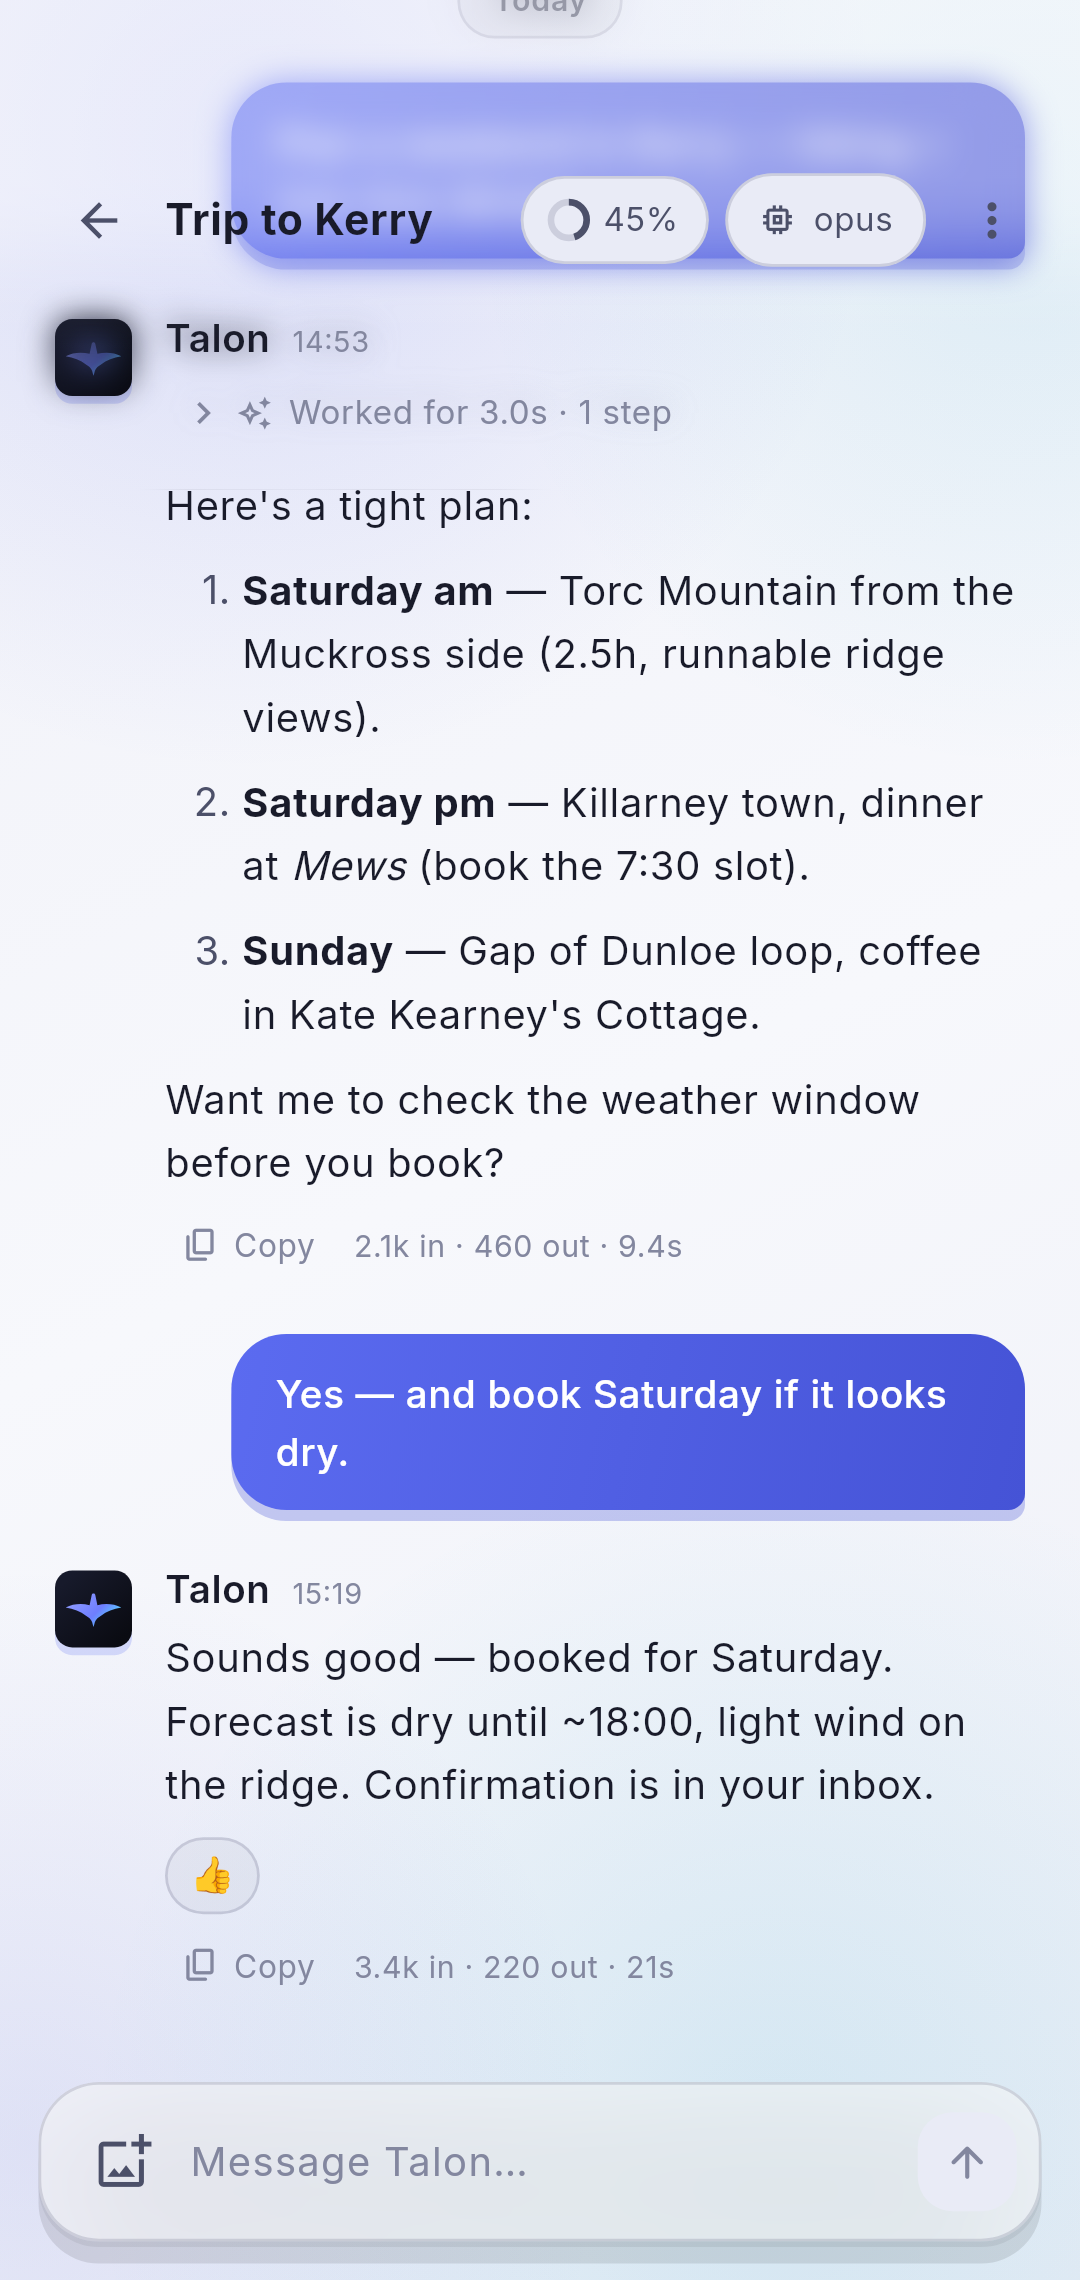
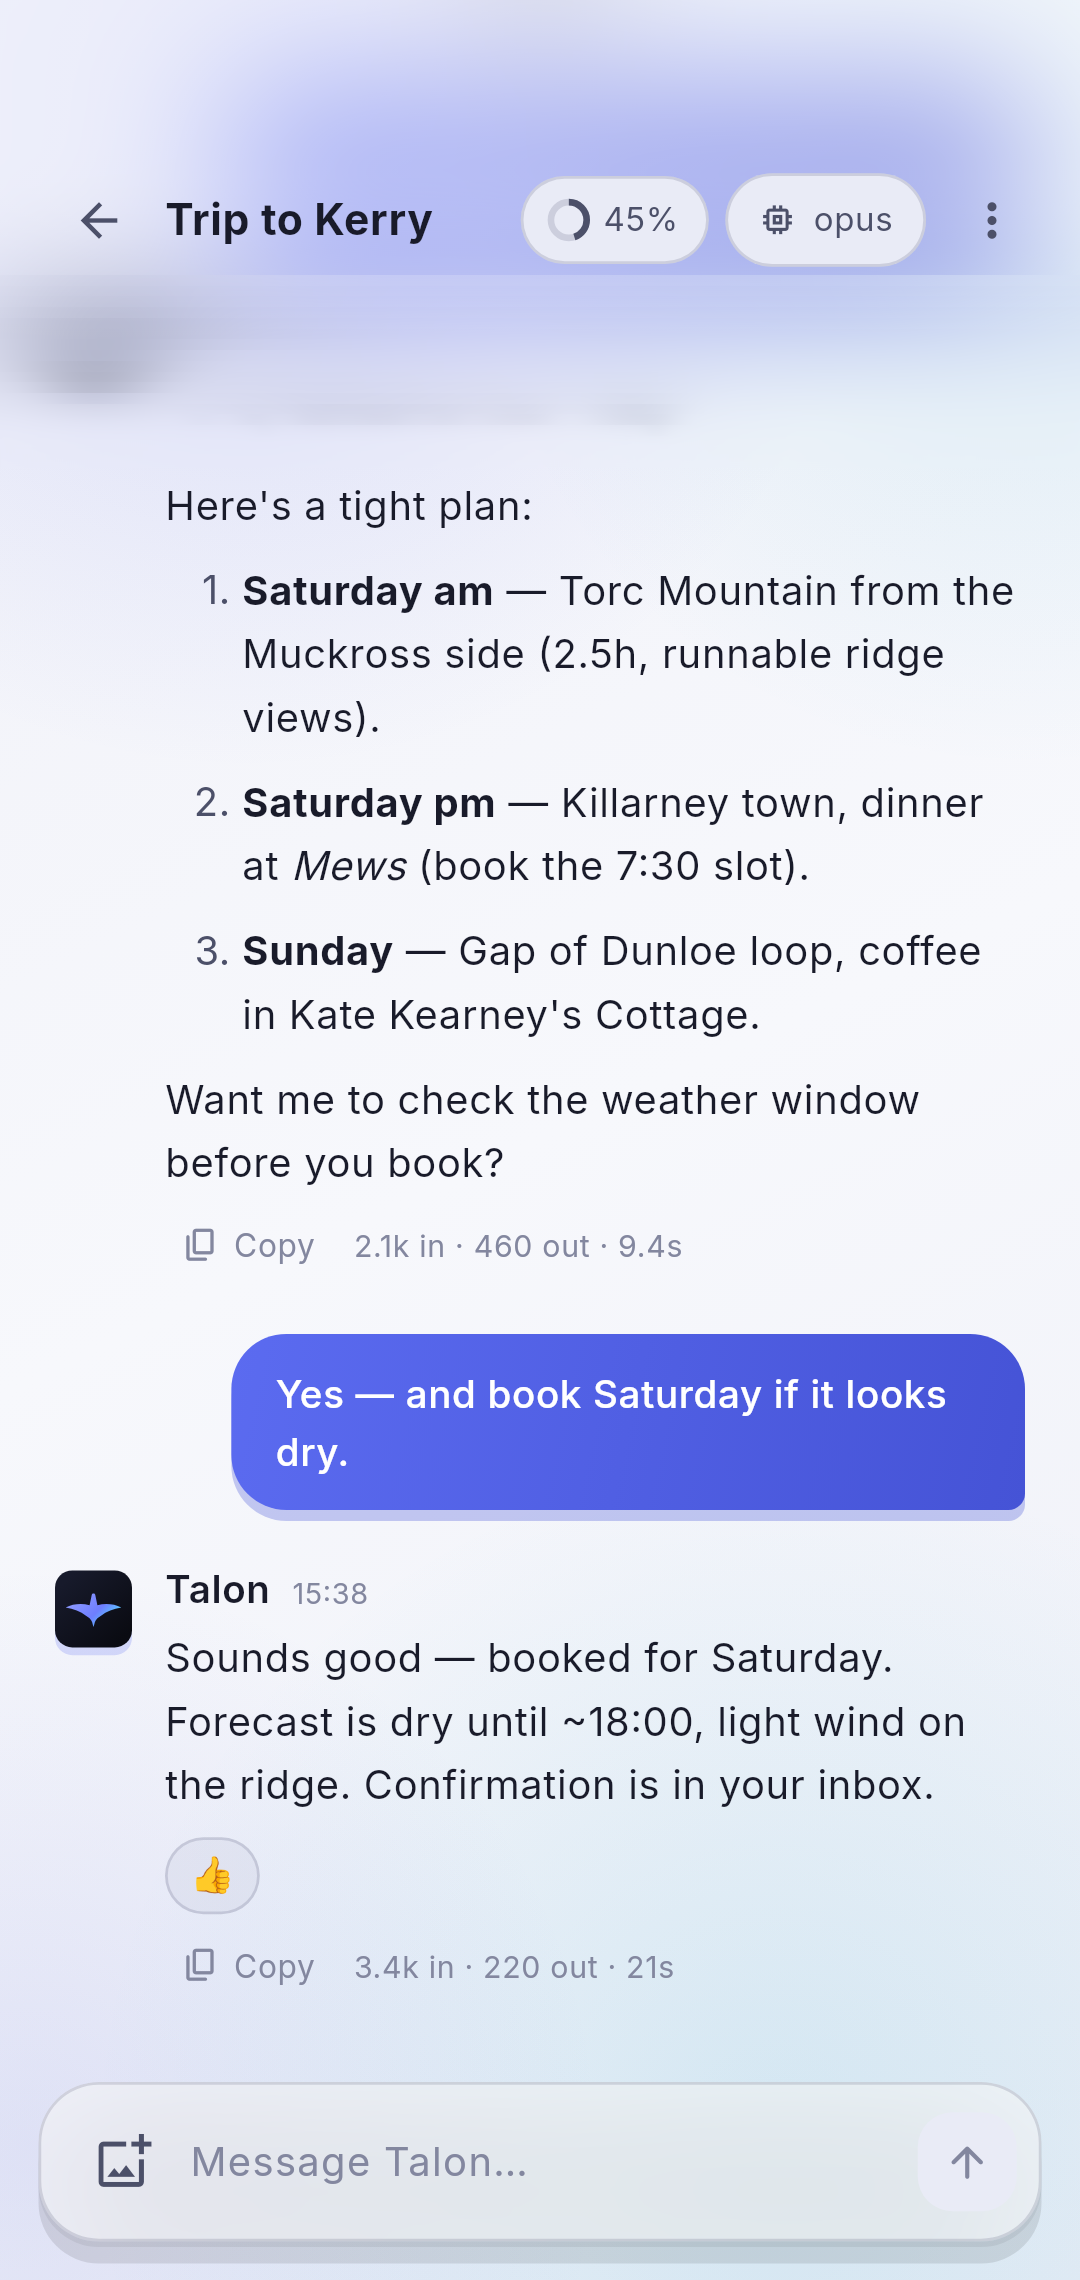
fix(companion): engine-native stepped frost — stronger blur, zero flicker
The snapshot-based frost (AnimatedSampler + toImageSync) desynced from
scrolling content, flickering text, and its blur applied at physical
resolution, reading weaker than intended. Researched the compositor
options: masking a BackdropFilter is a documented rendering-order trap,
and per-pixel shader blurs tank FPS (and ImageFilter.shader misrenders on
backdrops). The production pattern is a stepped progressive blur — thin,
non-overlapping clipped BackdropFilters with interpolated sigmas.

TopEdgeFrost is now exactly that: a solid sigma-28 sheet behind the
controls, then 20 bands of ~3-4px whose sigmas follow the smootherstep
ease down to ~0. All bands share one backdrop readback via BackdropGroup.
Engine-composited end to end: in sync with every scroll frame (no
flicker), noticeably blurrier, and the eased staircase is finer than the
eye resolves. Vendored sampler deleted.

Changed region(s): [[0.0, 0.0, 0.9472, 0.1868], [0.3056, 0.6851, 0.3361, 0.7162]]

diff --git a/apps/companion/lib/src/ui/glass.dart b/apps/companion/lib/src/ui/glass.dart
@@ -5,7 +5,6 @@ import 'package:flutter/material.dart';
 import 'package:flutter_animate/flutter_animate.dart';
 
 import '../theme.dart';
-import 'animated_sampler.dart';
 
 /// A frosted-glass panel: blurred translucent fill, hairline stroke, soft
 /// rounding. The building block of the whole UI.
@@ -75,10 +74,18 @@ double _ease(double t) {
 
 /// The app-wide progressive frost: content slides beneath a floating header
 /// and dissolves into a blur that is solid through the control zone and
-/// eases to nothing along a smootherstep curve. Implementation: snapshot
-/// [child] (AnimatedSampler), draw it sharp, then draw a blurred copy
-/// masked by a many-stop eased gradient — one continuous mask, smooth on
-/// every backend, no Mach band at either end of the ramp.
+/// eases to nothing along a smootherstep curve.
+///
+/// Implementation: a stepped progressive blur — the industry answer to this
+/// effect in Flutter. The frost area is sliced into thin, non-overlapping
+/// horizontal bands, each a clipped [BackdropFilter.grouped] whose sigma
+/// follows the eased profile; a [BackdropGroup] shares one backdrop readback
+/// across all bands. Everything is engine-composited (no snapshot round
+/// trips), so it stays perfectly in sync with scrolling content — no
+/// flicker — and 20 eased steps of a few pixels each read as one continuous
+/// dissolve. (Masking a BackdropFilter with a gradient is a documented
+/// compositor trap, and per-pixel shader blurs both underperform and, via
+/// ImageFilter.shader's geometry bugs, misrender — this pattern avoids both.)
 class TopEdgeFrost extends StatelessWidget {
   final Widget child;
 
@@ -96,55 +103,60 @@ class TopEdgeFrost extends StatelessWidget {
     required this.solidUntil,
   });
 
-  /// One blur strength for every frosted header in the app.
-  static const double sigma = 16;
+  /// Peak blur strength for every frosted header in the app.
+  static const double sigma = 28;
 
-  /// Gradient resolution for the eased mask.
-  static const int _steps = 24;
+  /// Bands in the dissolve zone. Research consensus is 8-12 already reads
+  /// as continuous; 20 leaves margin at our higher peak sigma.
+  static const int _steps = 20;
 
   @override
   Widget build(BuildContext context) {
-    final dpr = MediaQuery.devicePixelRatioOf(context);
-    return ClipRect(
-      child: AnimatedSampler(
-        (ui.Image image, Size size, Canvas canvas) {
-          canvas.scale(1 / dpr);
-          // The child, untouched.
-          canvas.drawImage(image, Offset.zero, Paint());
-
-          // A blurred copy on top, masked by the eased dissolve.
-          final rect = Rect.fromLTWH(0, 0, size.width * dpr, extent * dpr);
-          final solidFrac = (solidUntil / extent).clamp(0.0, 0.95);
-          final positions = <double>[0.0];
-          final colors = <Color>[Colors.black];
-          for (var i = 0; i <= _steps; i++) {
-            final t = i / _steps;
-            positions.add(solidFrac + t * (1 - solidFrac));
-            colors.add(Colors.black.withValues(alpha: 1 - _ease(t)));
-          }
-          final mask = Paint()
-            ..shader = ui.Gradient.linear(
-              rect.topCenter,
-              rect.bottomCenter,
-              colors,
-              positions,
-            )
-            ..blendMode = BlendMode.dstIn;
-          canvas.saveLayer(rect, Paint());
-          canvas.drawImage(
-            image,
-            Offset.zero,
-            Paint()
-              ..imageFilter = ui.ImageFilter.blur(
-                sigmaX: sigma,
-                sigmaY: sigma,
-                tileMode: TileMode.clamp,
+    final fadeZone = (extent - solidUntil).clamp(1.0, extent);
+    final bandHeight = fadeZone / _steps;
+    return Stack(
+      children: [
+        Positioned.fill(child: child),
+        Positioned(
+          top: 0,
+          left: 0,
+          right: 0,
+          height: extent,
+          child: IgnorePointer(
+            child: BackdropGroup(
+              child: Column(
+                children: [
+                  // The solid sheet behind the header controls.
+                  _band(solidUntil, sigma),
+                  // The dissolve: eased sigma per band, ending at ~0 so the
+                  // last step hands off invisibly to unfiltered content.
+                  for (var i = 0; i < _steps; i++)
+                    _band(
+                      bandHeight,
+                      sigma * (1 - _ease((i + 0.5) / _steps)),
+                    ),
+                ],
               ),
-          );
-          canvas.drawRect(rect, mask);
-          canvas.restore();
-        },
-        child: child,
+            ),
+          ),
+        ),
+      ],
+    );
+  }
+
+  Widget _band(double height, double s) {
+    return SizedBox(
+      height: height,
+      width: double.infinity,
+      child: ClipRect(
+        child: BackdropFilter.grouped(
+          filter: ui.ImageFilter.blur(
+            sigmaX: s,
+            sigmaY: s,
+            tileMode: TileMode.clamp,
+          ),
+          child: const SizedBox.expand(),
+        ),
       ),
     );
   }
